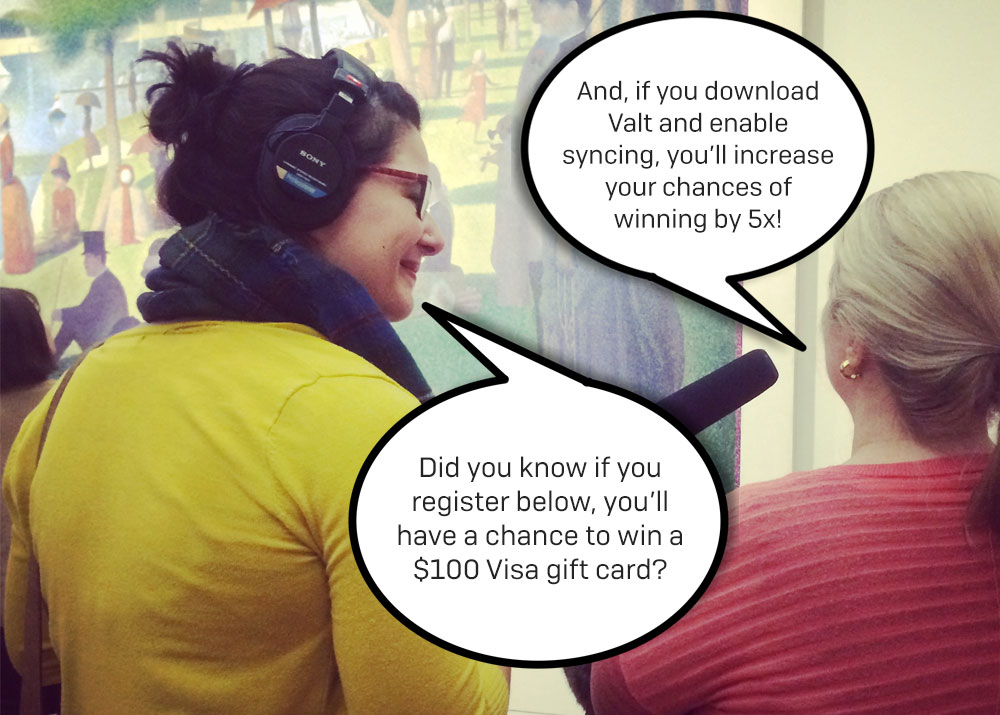
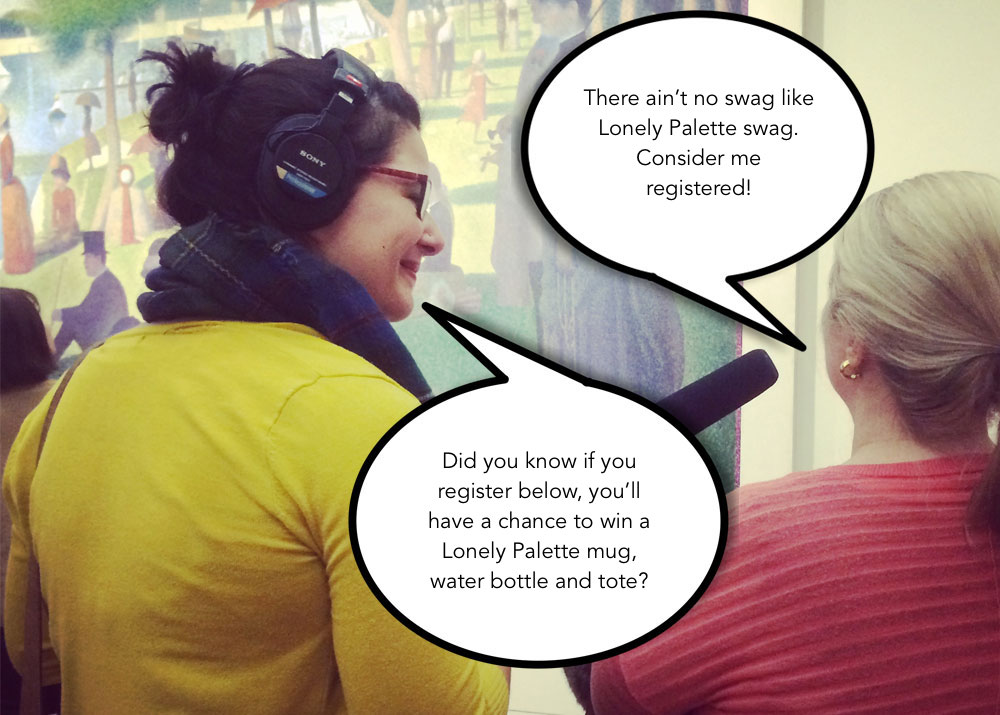
rebuilding site Wed Mar  7 07:29:43 EST 2018

Changed region(s): [[0.403, 0.6154, 0.682, 0.8308], [0.558, 0.0923, 0.837, 0.3385]]

diff --git a/lonely/index.html b/lonely/index.html
@@ -16,7 +16,7 @@
   
   <meta name="generator" content="Hugo 0.25.1" />
   
-  <title>Valt :: Poop Culture Poll &middot; Valt - Making Passwords Painless</title>
+  <title>Valt :: Lonely Palette &middot; Valt - Making Passwords Painless</title>
   
   <!-- Stylesheets -->
   <link href="https://valt.io/css/bootstrap-v3.3.7/bootstrap.min.css" 
@@ -142,7 +142,7 @@
 <div class="downloadIcons parent desktop-only" style="margin: 50px auto">
 	
 		
-		<a href = "https://geo.itunes.apple.com/us/app/valt/id1276031931?pt=118339834&amp;ct=poop-poll&amp;mt=12" style="height: 100%">
+		<a href = "https://geo.itunes.apple.com/us/app/valt/id1276031931?pt=118339834&amp;ct=lonely&amp;mt=12" style="height: 100%">
 	
 		<img src="/img/downloadMacOS@2x.png" 
 			 style="height: 100%; float: left; padding-right: 5px;">
@@ -155,7 +155,7 @@
 	
 	
 		
-		<a href = "https://itunes.apple.com/app/apple-store/id1275222446?pt=118339834&amp;ct=poop-poll&amp;mt=8">
+		<a href = "https://itunes.apple.com/app/apple-store/id1275222446?pt=118339834&amp;ct=lonely&amp;mt=8">
 	
 		  <img src="/img/downloadiOS@2x.png" style="width: 195px; height: 60px; align-content: center; padding-right: 0px;">
 		</a>

diff --git a/blog/index.html b/blog/index.html
@@ -165,29 +165,6 @@
 
 		     <div class="blog-col">
 		        <div class="image-hover blog">
-		          <a href="https://valt.io/blog/sync/">
-		          	<img class="wrapped-img" src="">
-		        		<h2 class="post-title"><span>Valt Synchronization</span></h2>
-		          </a>
-		      	</div>		
-		    </div>
-
-		
-			</div>
-			</div>
-		</section>
-		
-
-	
-		
-		
-		<section class="blog-responsive-pad">
-			<div class="container">
-    	 	<div class="blog-row">
-	    
-
-		     <div class="blog-col">
-		        <div class="image-hover blog">
 		          <a href="https://valt.io/blog/memorable/">
 		          	<img class="wrapped-img" src="/img/blog/image-memorable-thumb-600x600-1.jpg">
 		        		<h2 class="post-title"><span>What Makes an Image Memorable?</span></h2>
